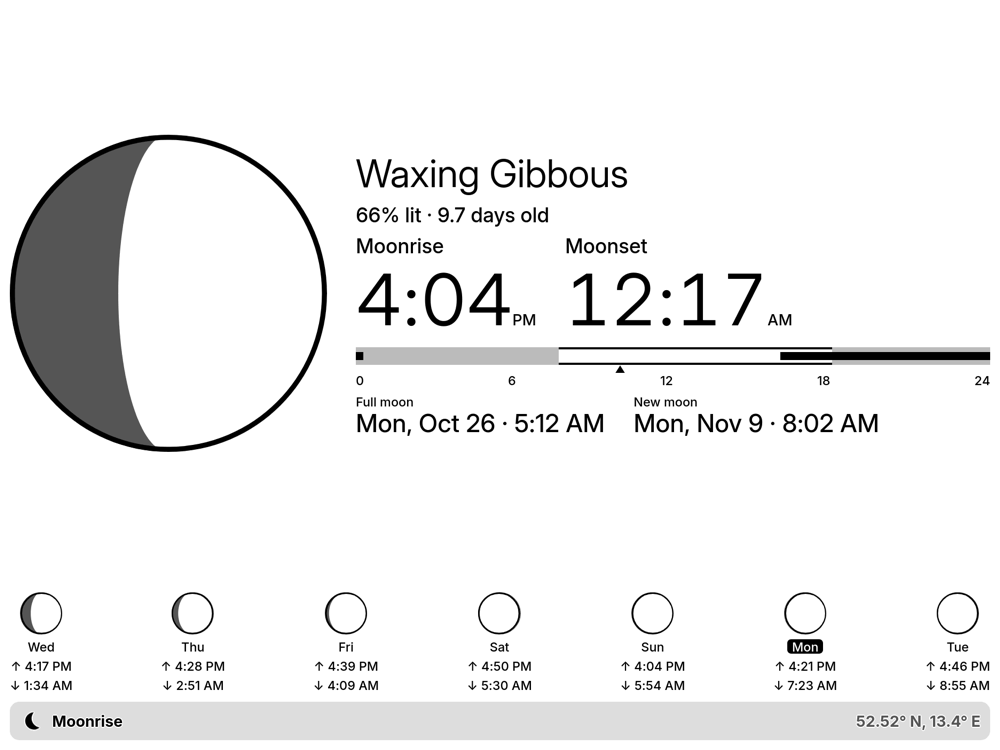
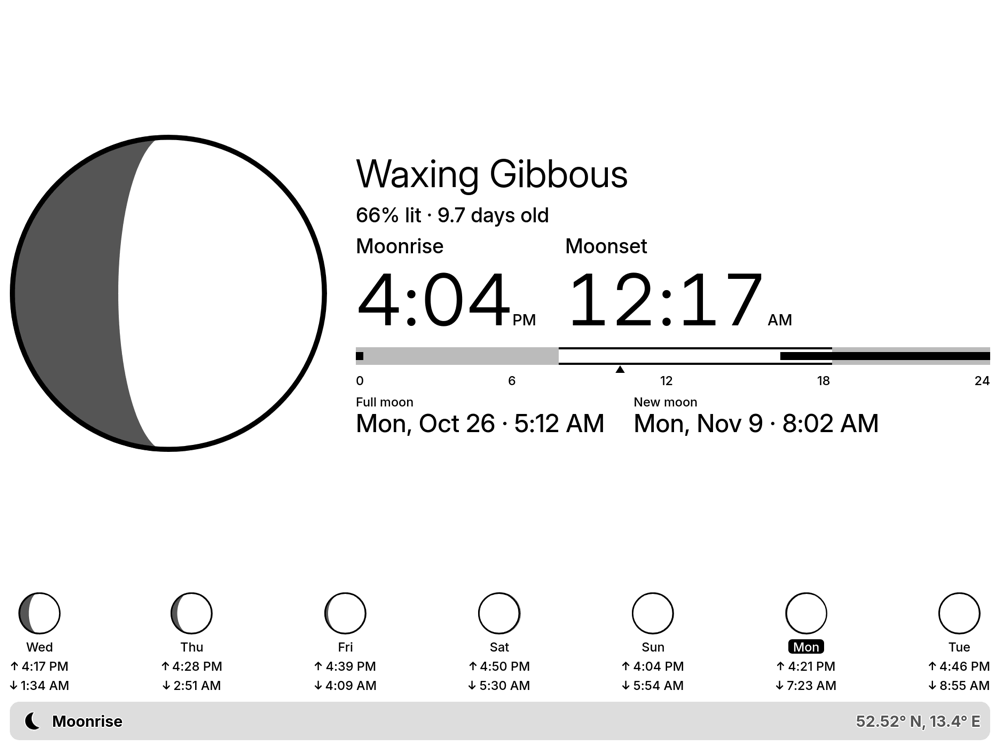
Refresh the README screenshots with the new rise/set arrows
Full, portrait and TRMNL X now show the SVG arrows in the week strip, and the intro says the week strip shows moonrise and moonset.

diff --git a/README.md b/README.md
@@ -2,7 +2,7 @@
 
 # Moonrise & Moonset
 
-When the moon rises and sets today at your location, for [TRMNL](https://trmnl.com) e-paper displays: a drawn moon in its current phase, a bar across the day showing when the moon is up and when it is night, the next full and new moon, and the moon for the coming week.
+When the moon rises and sets today at your location, for [TRMNL](https://trmnl.com) e-paper displays: a drawn moon in its current phase, a bar across the day showing when the moon is up and when it is night, the next full and new moon, and moonrise and moonset for the coming week.
 
 ![Full layout](docs/full.png)
 
